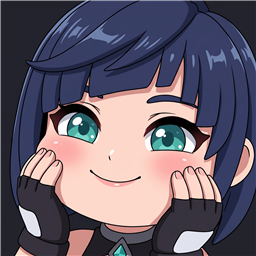
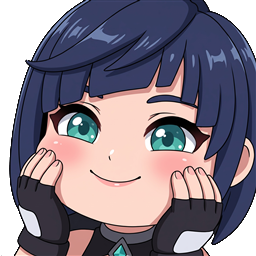
Bundle wardrobe pagination addon
Add wardrobe-pagination.js to the ignored scripts and remove any saved per-addon setting for it. Update the icon and adjust the addon-manager test.

Changed region(s): [[0.0, 0.0, 1.0, 1.0], [0.7812, 0.75, 1.0, 1.0]]

diff --git a/Scripts/addon-manager.js b/Scripts/addon-manager.js
@@ -127,7 +127,8 @@
         "fluid-color.js",
         "fusam.js",
         "LikoPlugin.js",
-        "fusam-liko-loader.js"
+        "fusam-liko-loader.js",
+        "wardrobe-pagination.js"
     ];
 
 
@@ -139,7 +140,13 @@
     let userConfig = {};
     try {
         const saved = localStorage.getItem(STORAGE_KEY);
-        if (saved) userConfig = JSON.parse(saved);
+        if (saved) {
+            userConfig = JSON.parse(saved);
+            if ("wardrobe-pagination.js" in userConfig) {
+                delete userConfig["wardrobe-pagination.js"];
+                localStorage.setItem(STORAGE_KEY, JSON.stringify(userConfig));
+            }
+        }
     } catch (e) {
         console.error("BC Desktop: Failed to read Addon Config", e);
     }

diff --git a/tests/BCDesktop.Tests/MainWindowTests.cs b/tests/BCDesktop.Tests/MainWindowTests.cs
@@ -221,7 +221,7 @@ public class MainWindowTests
         string addonManagerPath = Path.Combine(ProjectRoot, "Scripts", "addon-manager.js");
         Assert.IsTrue(File.Exists(addonManagerPath), "Scripts/addon-manager.js must exist.");
         string addonManagerContent = File.ReadAllText(addonManagerPath);
-        string[] ignoredScripts = ["autofocus.js", "fluid-color.js", "fusam.js", "LikoPlugin.js", "fusam-liko-loader.js"];
+        string[] ignoredScripts = ["autofocus.js", "fluid-color.js", "fusam.js", "LikoPlugin.js", "fusam-liko-loader.js", "wardrobe-pagination.js"];
         foreach (var ignored in ignoredScripts)
         {
             StringAssert.Contains(addonManagerContent, ignored, $"Addon Manager must include '{ignored}' in IGNORED_SCRIPTS.");
